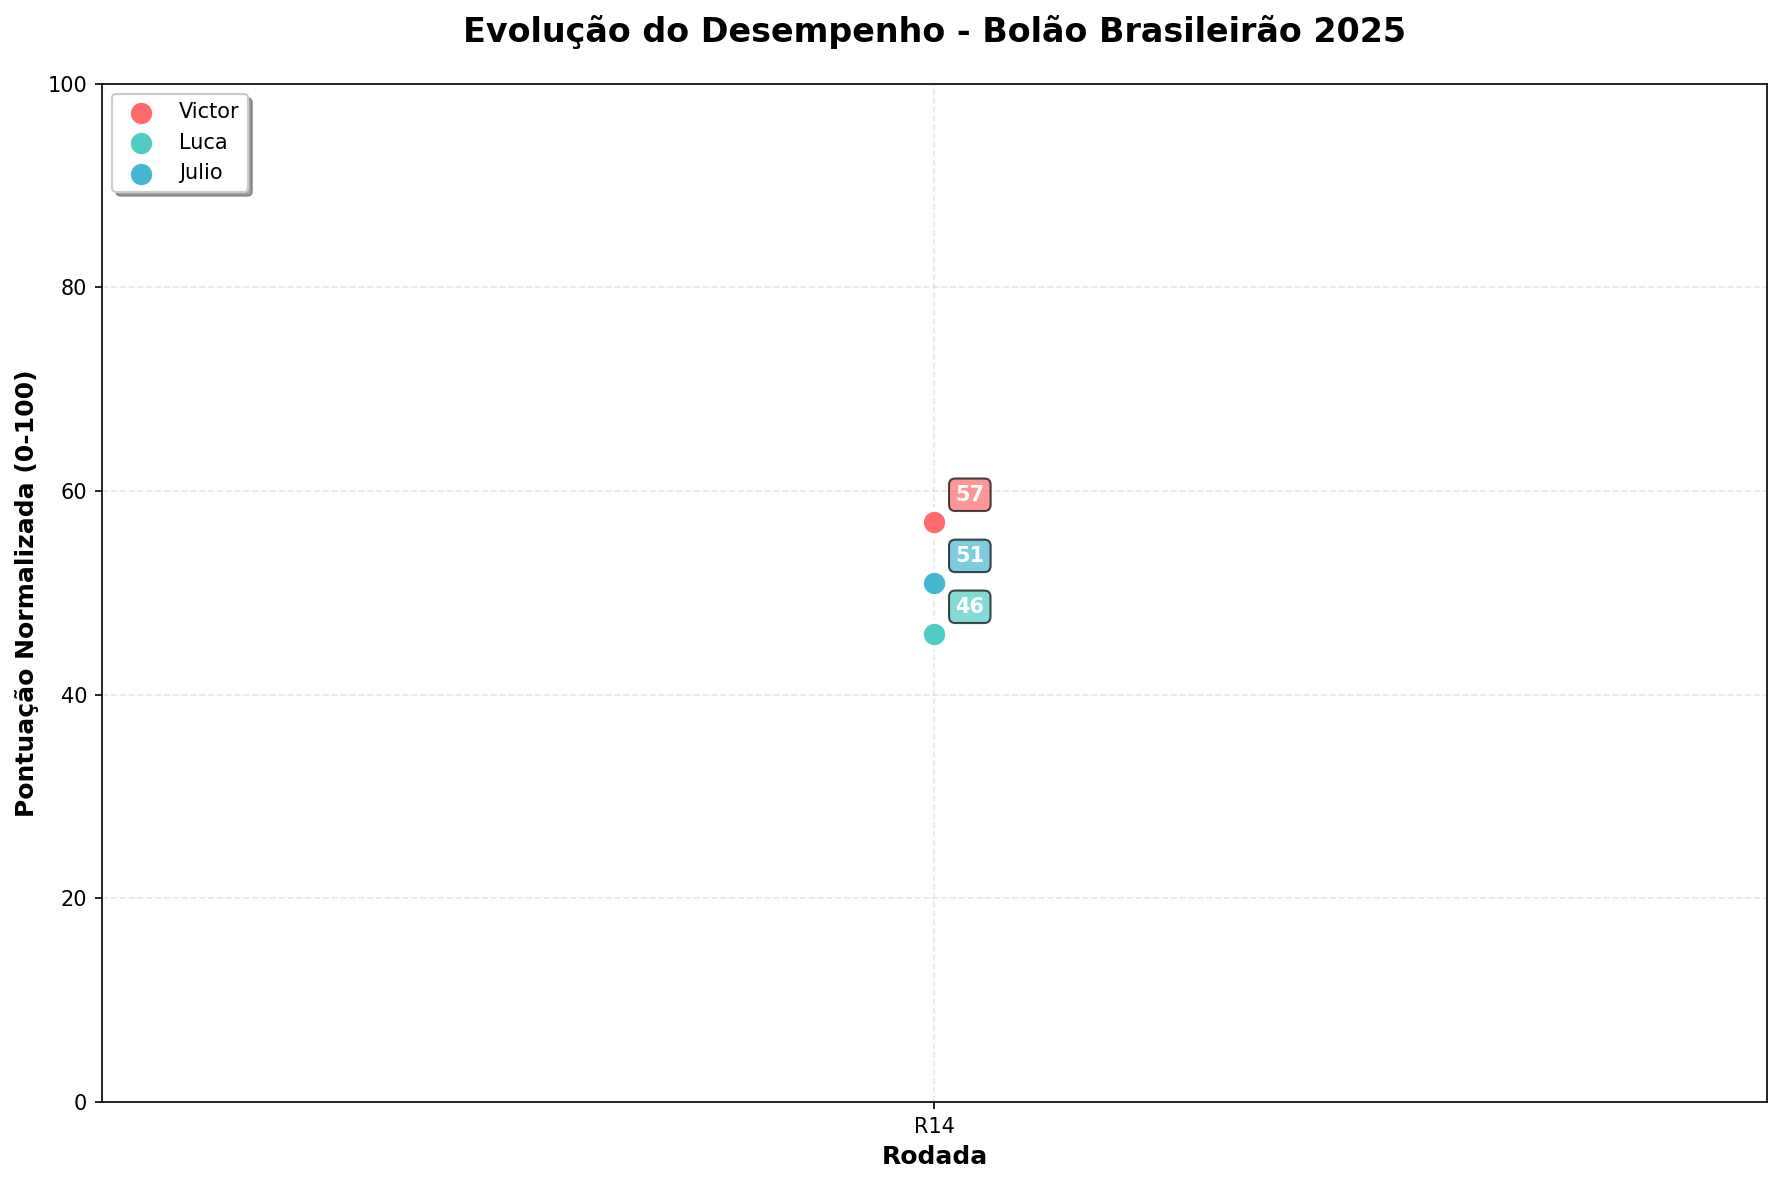
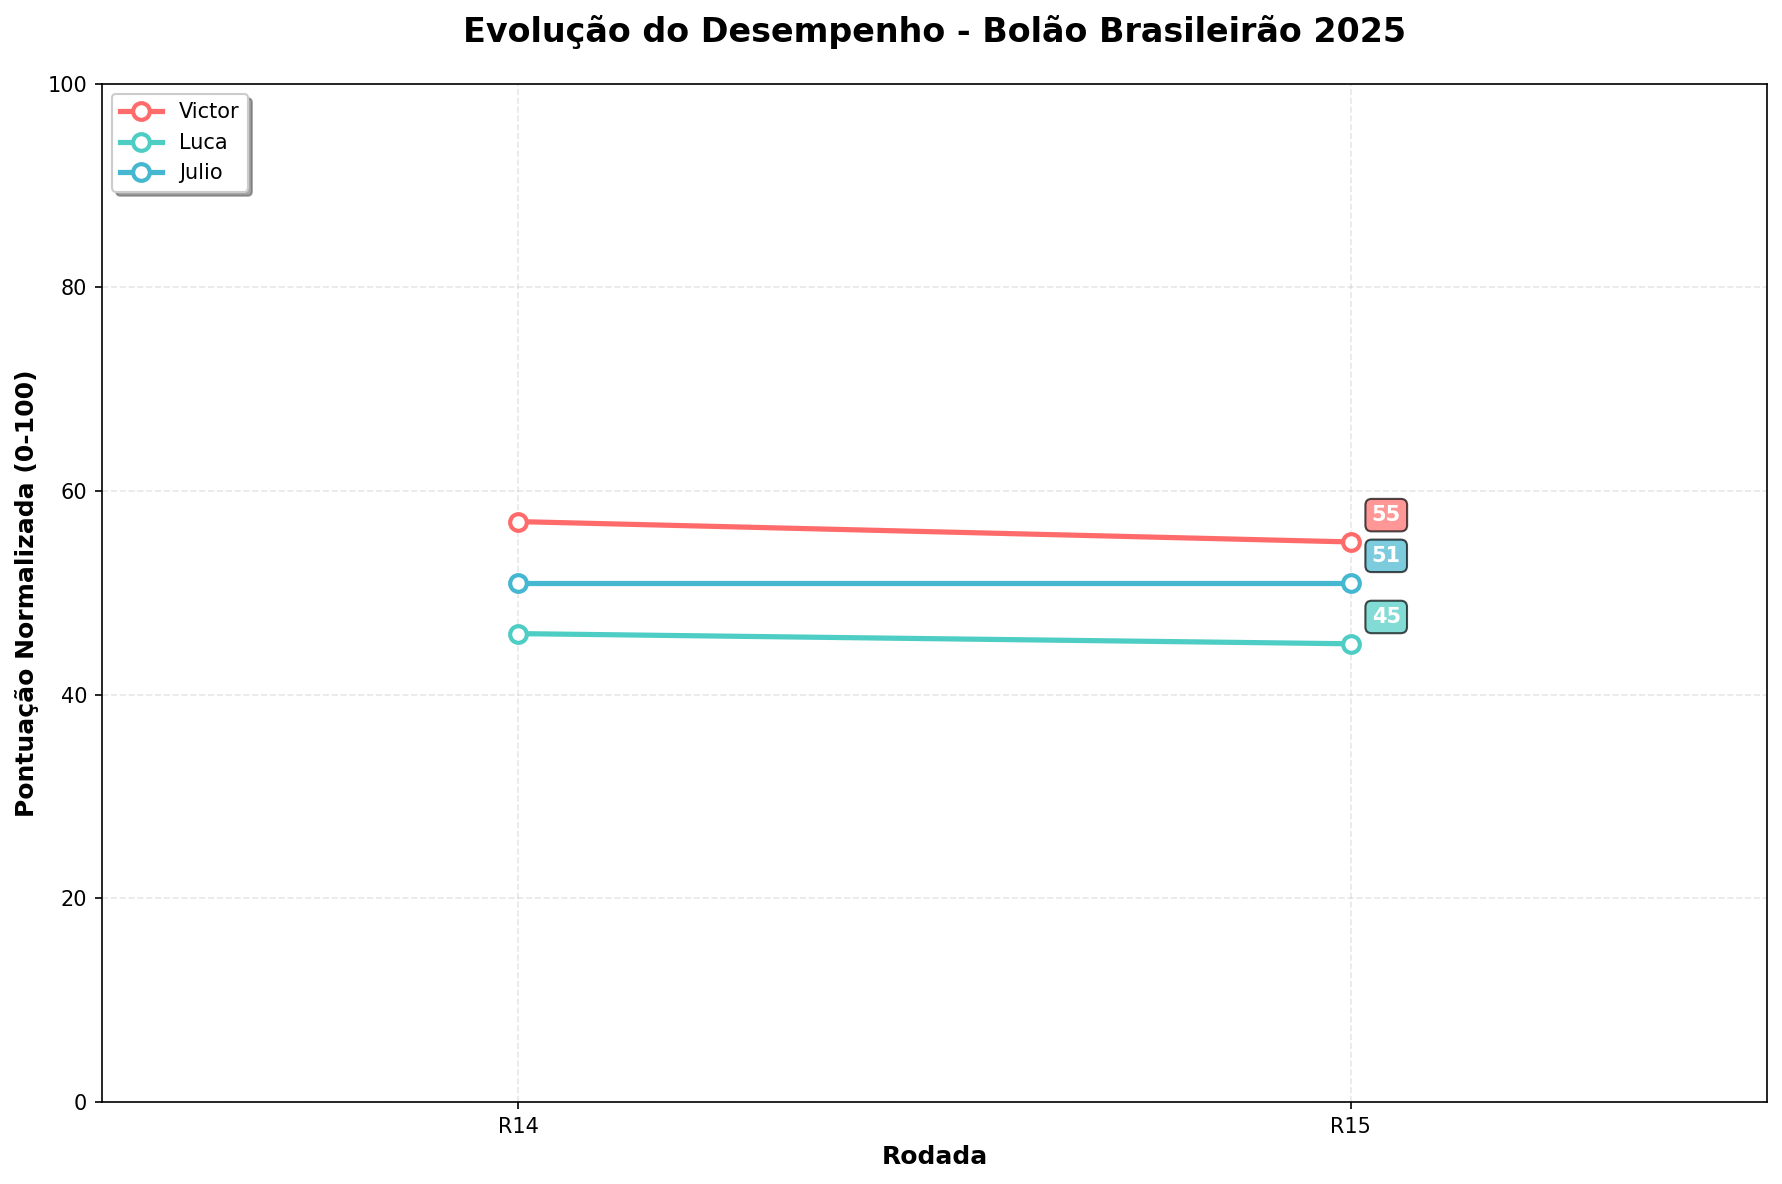
Atualizacao automatica - 20/07/2025 15:39:42,15

diff --git a/scrape_brasileirao_simple.py b/scrape_brasileirao_simple.py
@@ -361,7 +361,7 @@ class BrasileiroScraper:
         # Return the last completed round (maximum games played)
         return max_games
 
-    def save_score_history(self, normalized_scores, raw_scores, current_round):
+    def save_score_history(self, normalized_scores, raw_scores, current_round, force_update=False):
         """Save current scores to history for graph generation"""
         history_file = "score_history.json"
         
@@ -382,20 +382,37 @@ class BrasileiroScraper:
             }
             
             # Check if scores have changed from last entry
+            scores_changed = True
+            should_add_to_history = True
+            
             if history and len(history) > 0:
                 last_entry = history[-1]
-                if last_entry.get('normalized_scores') == normalized_scores:
-                    print("📊 Scores unchanged - not adding to history")
-                    return False
-            
-            history.append(new_entry)
-            
-            # Save updated history
-            with open(history_file, 'w', encoding='utf-8') as f:
-                json.dump(history, f, indent=2, ensure_ascii=False)
                 
-            print(f"📈 Score history updated: Rodada {current_round} - {timestamp}")
-            return True
+                # Check if normalized scores are the same
+                if last_entry.get('normalized_scores') == normalized_scores:
+                    scores_changed = False
+                    
+                    # If force_update, update the timestamp of the last entry instead of adding new
+                    if force_update:
+                        print("📊 Scores unchanged but force updating - refreshing timestamp")
+                        history[-1]['timestamp'] = timestamp
+                        should_add_to_history = False
+                    else:
+                        print("📊 Scores unchanged - not adding to history")
+                        should_add_to_history = False
+            
+            # Add new entry only if scores actually changed
+            if should_add_to_history and scores_changed:
+                history.append(new_entry)
+                print(f"📈 Score history updated: Rodada {current_round} - {timestamp}")
+            
+            # Save updated history (either new entry or updated timestamp)
+            if should_add_to_history or (force_update and not scores_changed):
+                with open(history_file, 'w', encoding='utf-8') as f:
+                    json.dump(history, f, indent=2, ensure_ascii=False)
+            
+            # Always return True if we need to update graph (either scores changed or force update)
+            return scores_changed or force_update
             
         except Exception as e:
             print(f"❌ Error saving score history: {e}")
@@ -581,7 +598,7 @@ class BrasileiroScraper:
         
         return chart_path
 
-    def update_readme(self, actual_standings, predictions, raw_scores):
+    def update_readme(self, actual_standings, predictions, raw_scores, force_update=False):
         """Update README.md with the latest results"""
         try:
             # Sort players by score (highest first)
@@ -652,7 +669,15 @@ class BrasileiroScraper:
                 medal = "🥇" if i == 1 else "🥈" if i == 2 else "🥉" if i == 3 else f"{i}."
                 results_table.append(f"{medal} **{player}**: {norm_score} pontos")
 
-            # Generate score graph
+            # Calculate current round first
+            current_round = self.get_current_round(actual_standings)
+            
+            # Save score history and check if we need to regenerate graph
+            should_update_graph = self.save_score_history(normalized_scores, raw_scores, current_round, force_update)
+            
+            # Generate score graph (always regenerate if scores changed or force update)
+            if should_update_graph:
+                print("📊 Generating updated performance chart...")
             graph_lines = self.generate_score_graph()
             results_table.extend(graph_lines)
 
@@ -689,10 +714,6 @@ class BrasileiroScraper:
                     f.write(new_content)
 
                 print(f"✅ Updated README.md with latest results")
-
-                # Calculate current round and save score history after successful README update
-                current_round = self.get_current_round(actual_standings)
-                self.save_score_history(normalized_scores, raw_scores, current_round)
 
             else:
                 print("❌ README.md not found")
@@ -762,7 +783,7 @@ class BrasileiroScraper:
                     else:
                         print("📊 Standings have changed - updating README...")
                     player_scores, raw_scores = self.compare_predictions(current_standings, predictions)
-                    self.update_readme(current_standings, predictions, raw_scores)
+                    self.update_readme(current_standings, predictions, raw_scores, force_update)
                     self.save_last_standings(current_standings)
                     print(f"\n✅ Successfully compared {len(current_standings)} teams")
                     print(f"✅ Calculated scores for {len(predictions)} players")

diff --git a/README.md b/README.md
@@ -2,7 +2,7 @@
 
 ## 🏆 Resultados Atuais
 
-**Última Atualização:** 2025-07-20 13:07:38
+**Última Atualização:** 2025-07-20 15:39:41
 
 | Time | Real | Victor | Julio | Luca |
 |------|------|------|------|------|
@@ -41,8 +41,12 @@
 | Rodada | Victor | Luca | Julio |
 |-------|-------|-------|-------|
 | R14 | 57 | 46 | 51 |
+| R15 | 55 | 45 | 51 |
 
 **Tendência (últimas 2 medições):**
+- **Victor**: 📉 -2
+- **Luca**: 📉 -1
+- **Julio**: ➡ =0
 
 ## 📖 Sobre o Projeto
 
@@ -55,9 +59,11 @@ Script em Python que captura em tempo real a classificação do Campeonato Brasi
 - **`requirements.txt`** - Dependências Python (matplotlib para gráficos)
 - **`performance_chart.png`** - Gráfico visual gerado automaticamente
 - **`score_history.json`** - Histórico de pontuações (gerado automaticamente)
+- **`update_bolao.bat`** - Script de automação para Windows (execução + Git)
 
 ## 🚀 Como Usar
 
+### Execução Manual
 ```bash
 python scrape_brasileirao_simple.py
 ```
@@ -66,6 +72,33 @@ Ou com um arquivo de previsões customizado:
 ```bash
 python scrape_brasileirao_simple.py minhas_previsoes.json
 ```
+
+Para forçar atualização (ignorar checagem de mudanças):
+```bash
+python scrape_brasileirao_simple.py force
+```
+
+### Execução Automatizada (Windows)
+Use o arquivo `update_bolao.bat` para execução automatizada com Git:
+
+```batch
+# Execução normal
+update_bolao.bat
+
+# Forçar atualização
+update_bolao.bat -f
+```
+
+O script `.bat` automaticamente:
+- 🐍 **Ativa o ambiente conda** (qt) se disponível
+- 📊 **Executa o scraper** e atualiza dados
+- 📝 **Faz commit e push** das alterações para o Git
+- 🔄 **Funciona fora do VS Code** com detecção automática do ambiente Python
+
+**Requisitos para o `.bat`:**
+- Windows com conda/anaconda instalado, OU Python no PATH do sistema
+- Git configurado (`git config --global user.name` e `user.email`)
+- Repositório Git inicializado e conectado ao GitHub
 
 ## ⚡ Funcionalidades
 
